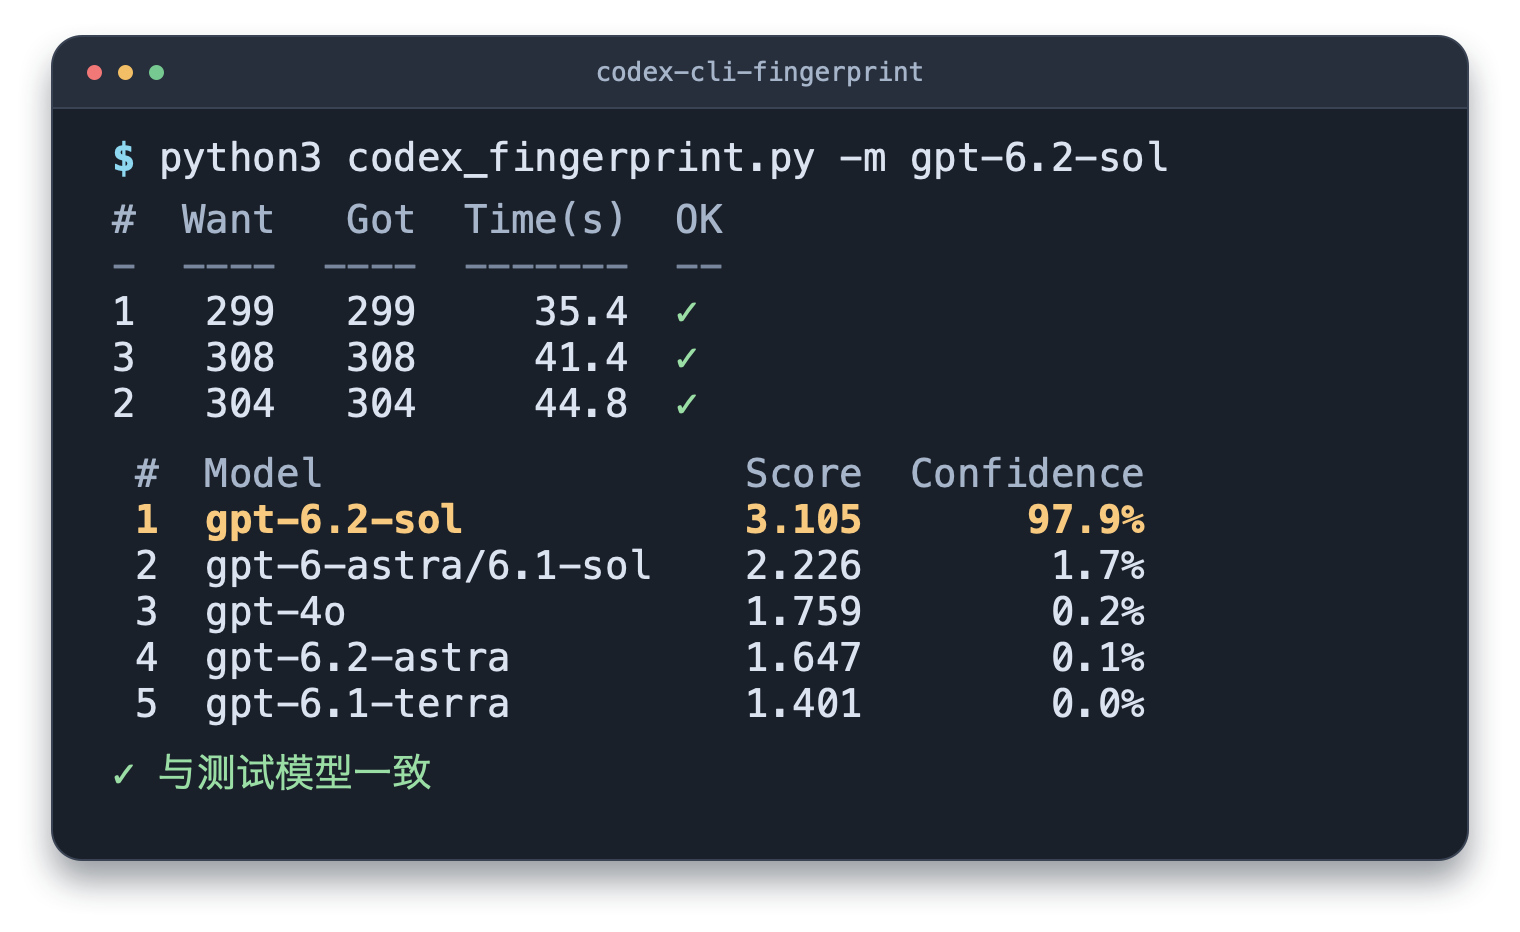
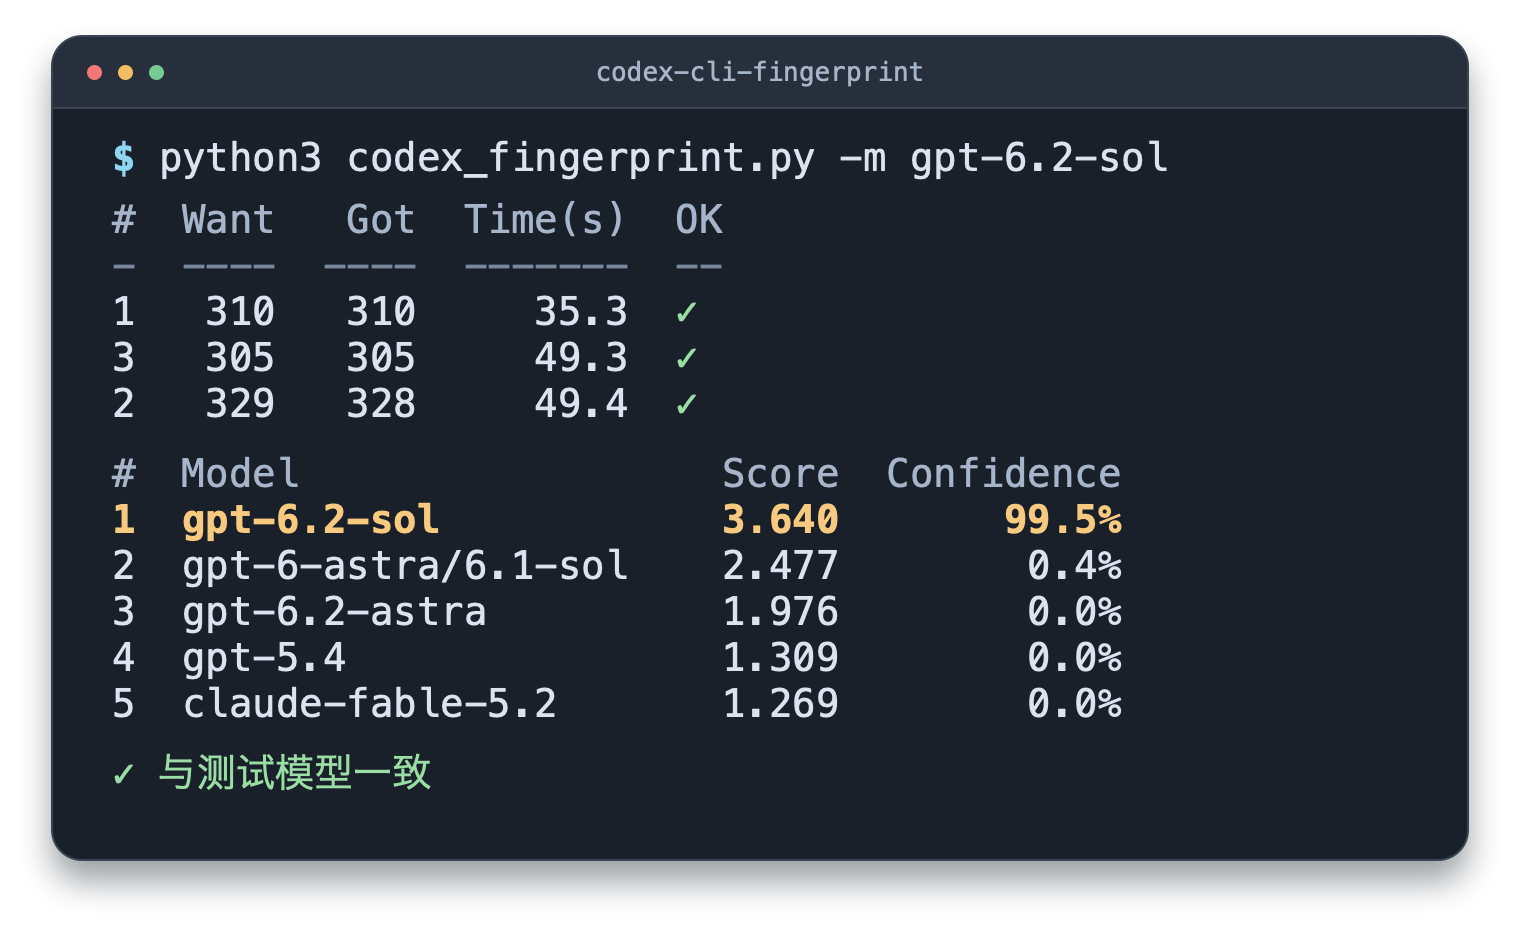
展示全库前五名并更新检测示例

diff --git a/codex_fingerprint.py b/codex_fingerprint.py
@@ -42,7 +42,6 @@ class Challenge(NamedTuple):
 class Candidate(NamedTuple):
     model_id: str
     display_name: str
-    family: str
     score: float
     probability: float | None
 
@@ -397,7 +396,7 @@ def score_replies(replies: list[list[int]], models: list[dict], detector: dict) 
         raise ValueError("排名计算产生无效数值")
     probabilities = calibrated_probabilities(scores, detector) if len(replies) == SAMPLE_COUNT else None
     candidates = [
-        Candidate(model["id"], model["display_name"], model["family"], score, probability)
+        Candidate(model["id"], model["display_name"], score, probability)
         for model, score, probability in zip(models, scores, probabilities or [None] * len(scores))
     ]
     return sorted(candidates, key=lambda candidate: -candidate.score)
@@ -470,13 +469,13 @@ def collect_replies(executable: str, challenges: list[Challenge], model: str, ef
 
 
 def print_ranking(candidates: list[Candidate], model: str) -> None:
-    shown = [candidate for candidate in candidates if candidate.family == "gpt"][:5]
-    width = max((len(candidate.display_name) for candidate in shown), default=5)
-    print(f"{'#':>2}  {'Model':<{width}}  {'Score':>7}  {'Confidence':>10}")
+    shown = candidates[:5]
+    width = max(len(candidate.display_name) for candidate in shown)
+    print(f"#  {'Model':<{width}}  {'Score':>7}  {'Confidence':>10}")
     for place, candidate in enumerate(shown, 1):
         probability = candidate.probability
         confidence = f"{probability:.1%}" if probability is not None else "-"
-        print(f"{place:>2}  {candidate.display_name:<{width}}  {candidate.score:>7.3f}  {confidence:>10}")
+        print(f"{place}  {candidate.display_name:<{width}}  {candidate.score:>7.3f}  {confidence:>10}")
 
     print()
     if MODEL_ALIASES.get(model, model) == candidates[0].model_id:

diff --git a/README.md b/README.md
@@ -1,8 +1,8 @@
 # Codex CLI 指纹检测
 
-检测本地 Codex CLI 实际调用的 GPT 模型。脚本让模型凭第一反应写出约 300 个 1–355 的整数，再与参考库比对。当前参考库包含 72 个指纹类别，其中包括 GPT‑6.2 Sol 和 Astra。脚本只使用 Python 3 标准库。指纹数据和检测算法来自 [lm-detector](https://github.com/Ikaleio/lm-detector/tree/33fb43f26670be0ed7817ab13e5c4c4731ccb76a)。
+检测本地 Codex CLI 实际调用的模型。脚本让模型凭第一反应写出约 300 个 1–355 的整数，再与参考库中的 72 个指纹类别比对。脚本只使用 Python 3 标准库。指纹数据和检测算法来自 [lm-detector](https://github.com/Ikaleio/lm-detector/tree/33fb43f26670be0ed7817ab13e5c4c4731ccb76a)。
 
-<img src="./example.png" alt="GPT-6.2 Sol 指纹检测结果，排名第一，置信度 97.9%" width="760">
+<img src="./example.png" alt="用 GPT-6.2 Sol 测试的指纹检测结果" width="760">
 
 ## 用法
 
@@ -29,7 +29,7 @@ wget -qO- https://is.gd/codex_fingerprint | python3 - -m gpt-6.2-sol
 - `-m, --model`：要测试的 Codex 模型名（必填）
 - `-r, --reasoning-effort`：推理强度，默认 `low`，与参考库中 GPT 样本的采集条件一致
 
-每次运行并行发送 3 个挑战。脚本在整个参考库中评分，列出排名最高的 5 个 GPT 候选，并用全库第一名判断是否与测试模型一致。3 条回答均有效且校准参数与检测器匹配时，才显示置信度。置信度是参考库内的闭集概率，库外模型也会匹配到库内最接近的候选。
+每次运行并行发送 3 个挑战，列出参考库中得分最高的 5 个候选，并用第一名判断是否与测试模型一致。三条回答都有效时才会显示置信度。
 
 ## 致谢
 
